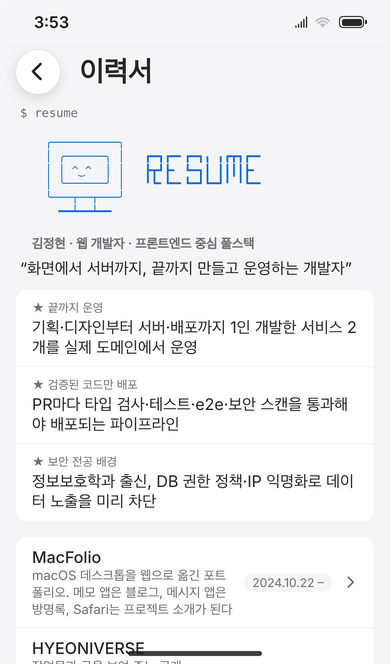
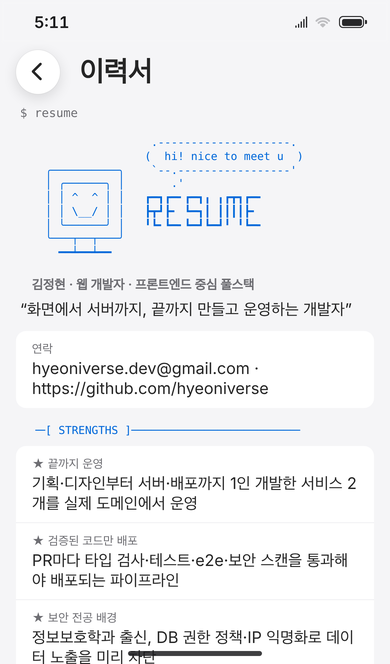
feat(terminal): resume를 더 귀엽고 풍성하게 (말풍선 Mac, 절 머리, 이력서 전체, 고양이 인사)
- 강점·할 수 있는 일·프로젝트(성과 포함)·그 밖의 프로젝트·수상·교육을 모두 그린다
- 프로젝트 성과는 설명 아래 줄로 번호에 맞춰 들여 쓴다
- 그림에 두 칸 폭 글자가 끼지 않는지 테스트로 지킨다

Changed region(s): [[0.0615, 0.2108, 0.9231, 1.0], [0.0923, 0.0, 0.1846, 0.0602]]

diff --git a/apps/react/src/apps/terminal/commands.ts b/apps/react/src/apps/terminal/commands.ts
@@ -86,15 +86,27 @@ export function formatDate(date: Date): string {
 	return `${date.getFullYear()}년 ${date.getMonth() + 1}월 ${date.getDate()}일 (${WEEKDAYS[date.getDay()]}) ${two(date.getHours())}:${two(date.getMinutes())}:${two(date.getSeconds())}`;
 }
 
-/** resume의 그림: 웃는 Mac과 RESUME 글자 (모든 글자가 한 칸 폭이라 어느 고정폭 글꼴에서도 줄이 맞는다) */
+// resume의 그림들. 모든 글자가 한 칸 폭(상자 그리기 문자·ASCII)이라 어느 고정폭 글꼴에서도 줄이 맞는다.
+// 한글은 그림 안에 넣지 않는다 (두 칸 폭이라 오른쪽 테두리가 어긋난다)
+
+/** 첫머리: 말풍선을 단 웃는 Mac과 RESUME 글자 */
 const RESUME_ART = [
-	'  ╭──────────╮',
-	'  │ ╭──────╮ │   ┏━┓┏━╸┏━┓╻ ╻┏┳┓┏━╸',
-	'  │ │ ^‿^  │ │   ┣┳┛┣╸ ┗━┓┃ ┃┃┃┃┣╸ ',
+	'                  .--------------------.',
+	'                 (  hi! nice to meet u  )',
+	"  ╭──────────╮    `--.-----------------'",
+	"  │ ╭──────╮ │       .'",
+	'  │ │ ^  ^ │ │   ┏━┓┏━╸┏━┓╻ ╻┏┳┓┏━╸',
+	'  │ │ \\__/ │ │   ┣┳┛┣╸ ┗━┓┃ ┃┃┃┃┣╸',
 	'  │ ╰──────╯ │   ╹┗╸┗━╸┗━┛┗━┛╹ ╹┗━╸',
 	'  ╰───┬──┬───╯',
 	'    ━━┷━━┷━━',
 ].join('\n');
+
+/** 절 머리: ╶─[ SKILLS ]────╴ (글자 수와 상관없이 같은 폭) */
+const section = (label: string): Line => art(`╶─[ ${label} ]${'─'.repeat(Math.max(4, 34 - label.length))}╴`);
+
+/** 끝: 고양이 인사 */
+const RESUME_BYE = ['   /\\_/\\', '  ( o.o )   thanks for reading!', '   > ^ <    -- contact me anytime'].join('\n');
 
 export const COMMANDS: Record<string, Command> = {
 	help: {
@@ -138,28 +150,60 @@ export const COMMANDS: Record<string, Command> = {
 		description: '이력서를 그려 보여 주기',
 		run: () => {
 			const profile = getProfile();
+			// 번호는 projects 목록의 번호라 project <번호>로 이어서 볼 수 있다 (단축어는 줄을 누르면 그 명령)
+			const numbered = (id: string) => {
+				const index = PROJECTS.findIndex((project) => project.id === id);
+				return index < 0 ? null : { project: PROJECTS[index], marker: `${index + 1}.` };
+			};
+			const entries = (items: typeof RESUME.awards) =>
+				items.map((item) => pair(item.period, item.detail ? `${item.title} (${item.detail})` : item.title));
 			return output([
 				art(RESUME_ART),
 				heading(`${profile.name} · ${RESUME.role}`),
 				text(`“${RESUME.motto}”`),
-				text(''),
+				pair('연락', `${profile.email} · ${profile.github}`),
+				section('STRENGTHS'),
 				...RESUME.strengths.map((item) => pair(`★ ${item.title}`, item.detail)),
-				text(''),
-				// 번호는 projects 목록의 번호라 project <번호>로 이어서 볼 수 있다 (단축어는 줄을 누르면 그 명령)
-				...RESUME.featured.flatMap(({ id }): Line[] => {
-					const index = PROJECTS.findIndex((project) => project.id === id);
-					if (index < 0) return [];
-					const project = PROJECTS[index];
+				section('SKILLS'),
+				...RESUME.capabilities.map((item) => pair(item.area, `${item.detail} (${item.tools.join(', ')})`)),
+				section('PROJECTS'),
+				...RESUME.featured.flatMap(({ id, bullets }): Line[] => {
+					const found = numbered(id);
+					if (!found) return [];
 					return [
 						{
 							kind: 'item',
-							marker: `${index + 1}.`,
-							title: project.name,
-							tag: project.period,
-							detail: project.description,
+							marker: found.marker,
+							title: found.project.name,
+							tag: found.project.period,
+							// 성과는 설명 아래 줄로: 번호 뒤에 맞춰 들여 쓴 채 줄바꿈된다 (상세 칸은 줄바꿈을 그대로 그린다)
+							detail: [
+								found.project.description,
+								...bullets.map((bullet) => `· ${bullet.title} — ${bullet.detail}`),
+							].join('\n'),
 						},
 					];
 				}),
+				section('MORE PROJECTS'),
+				...RESUME.minor.flatMap(({ id, line }): Line[] => {
+					const found = numbered(id);
+					return found
+						? [
+								{
+									kind: 'item',
+									marker: found.marker,
+									title: found.project.name,
+									tag: found.project.period,
+									detail: line,
+								},
+							]
+						: [];
+				}),
+				section('AWARDS'),
+				...entries(RESUME.awards),
+				section('EDUCATION'),
+				...entries(RESUME.education),
+				art(RESUME_BYE),
 				muted('자세히 보려면: project <번호> · 전체 이력서와 PDF는 Finder › 문서 › 이력서'),
 			]);
 		},

diff --git a/apps/react/src/apps/terminal/commands.test.ts b/apps/react/src/apps/terminal/commands.test.ts
@@ -31,20 +31,34 @@ describe('parse', () => {
 });
 
 describe('runCommand', () => {
-	it('resume는 웃는 Mac 그림과 함께 직함·한 줄 소개·강점·주요 프로젝트를 그린다 (다른 앱을 열지 않는다)', () => {
+	it('resume는 웃는 Mac·고양이 그림과 함께 이력서 전체(강점·할 수 있는 일·프로젝트·수상·교육)를 그린다', () => {
 		const result = runCommand('resume', context);
+		const lines = texts(result.lines);
 		expect(result.lines[0]).toMatchObject({ kind: 'art' });
-		expect(texts(result.lines)).toContain(`“${RESUME.motto}”`);
-		for (const item of RESUME.strengths) expect(texts(result.lines)).toContain(`★ ${item.title}: ${item.detail}`);
-		const projects = result.lines
-			.filter((line) => line.kind === 'item')
-			.map((line) => line.kind === 'item' && line.title);
-		expect(projects).toEqual(RESUME.featured.map(({ id }) => PROJECTS.find((p) => p.id === id)!.name));
+		expect(result.lines.filter((line) => line.kind === 'art').length).toBeGreaterThanOrEqual(8);
+		expect(lines).toContain(`“${RESUME.motto}”`);
+		for (const item of RESUME.strengths) expect(lines).toContain(`★ ${item.title}: ${item.detail}`);
+		for (const item of RESUME.capabilities) expect(lines.some((line) => line.startsWith(`${item.area}: `))).toBe(true);
+		for (const item of [...RESUME.awards, ...RESUME.education])
+			expect(lines.some((line) => line.startsWith(`${item.period}: ${item.title}`))).toBe(true);
+		// 프로젝트: 크게 보여 줄 것과 한 줄짜리 모두, 성과는 프로젝트 아래 줄로
+		const projects = result.lines.flatMap((line) => (line.kind === 'item' ? [line.title] : []));
+		expect(projects).toEqual(
+			[...RESUME.featured, ...RESUME.minor].map(({ id }) => PROJECTS.find((p) => p.id === id)!.name)
+		);
+		const firstItem = result.lines.find((line) => line.kind === 'item');
+		const bullet = RESUME.featured[0].bullets[0];
+		expect(firstItem?.kind === 'item' && firstItem.detail).toContain(`\n· ${bullet.title} — ${bullet.detail}`);
 		// 번호는 projects 목록의 번호 (project <번호>로 이어서 본다)
 		const first = result.lines.find((line) => line.kind === 'item');
 		const index = PROJECTS.findIndex((p) => p.id === RESUME.featured[0].id);
 		expect(first).toMatchObject({ marker: `${index + 1}.` });
 		expect(result.effects).toEqual([]);
+	});
+
+	it('resume의 그림은 한 칸 폭 글자만 쓴다 (한글 등 두 칸 글자가 끼면 줄이 어긋난다)', () => {
+		const art = runCommand('resume', context).lines.flatMap((line) => (line.kind === 'art' ? [line.text] : []));
+		for (const block of art) expect(block).not.toMatch(/[\u1100-\u11ff\u3000-\u9fff\uac00-\ud7af\uff00-\uffef]/);
 	});
 
 	it('빈 입력은 아무것도 하지 않는다', () => {

diff --git a/apps/react/src/apps/terminal/Shortcuts.css b/apps/react/src/apps/terminal/Shortcuts.css
@@ -180,6 +180,8 @@ a.shortcut-row {
 .shortcut-item small {
 	color: var(--color-secondary-label);
 	font-size: var(--text-footnote);
+	/* resume의 프로젝트 성과처럼 여러 줄인 설명 */
+	white-space: pre-line;
 }
 
 .shortcut-tag {

diff --git a/apps/react/src/apps/terminal/Terminal.css b/apps/react/src/apps/terminal/Terminal.css
@@ -137,6 +137,8 @@
 .terminal-item-detail {
 	display: block;
 	color: var(--terminal-muted);
+	/* resume의 프로젝트 성과처럼 여러 줄인 설명 */
+	white-space: pre-line;
 }
 
 .terminal-input-line {
